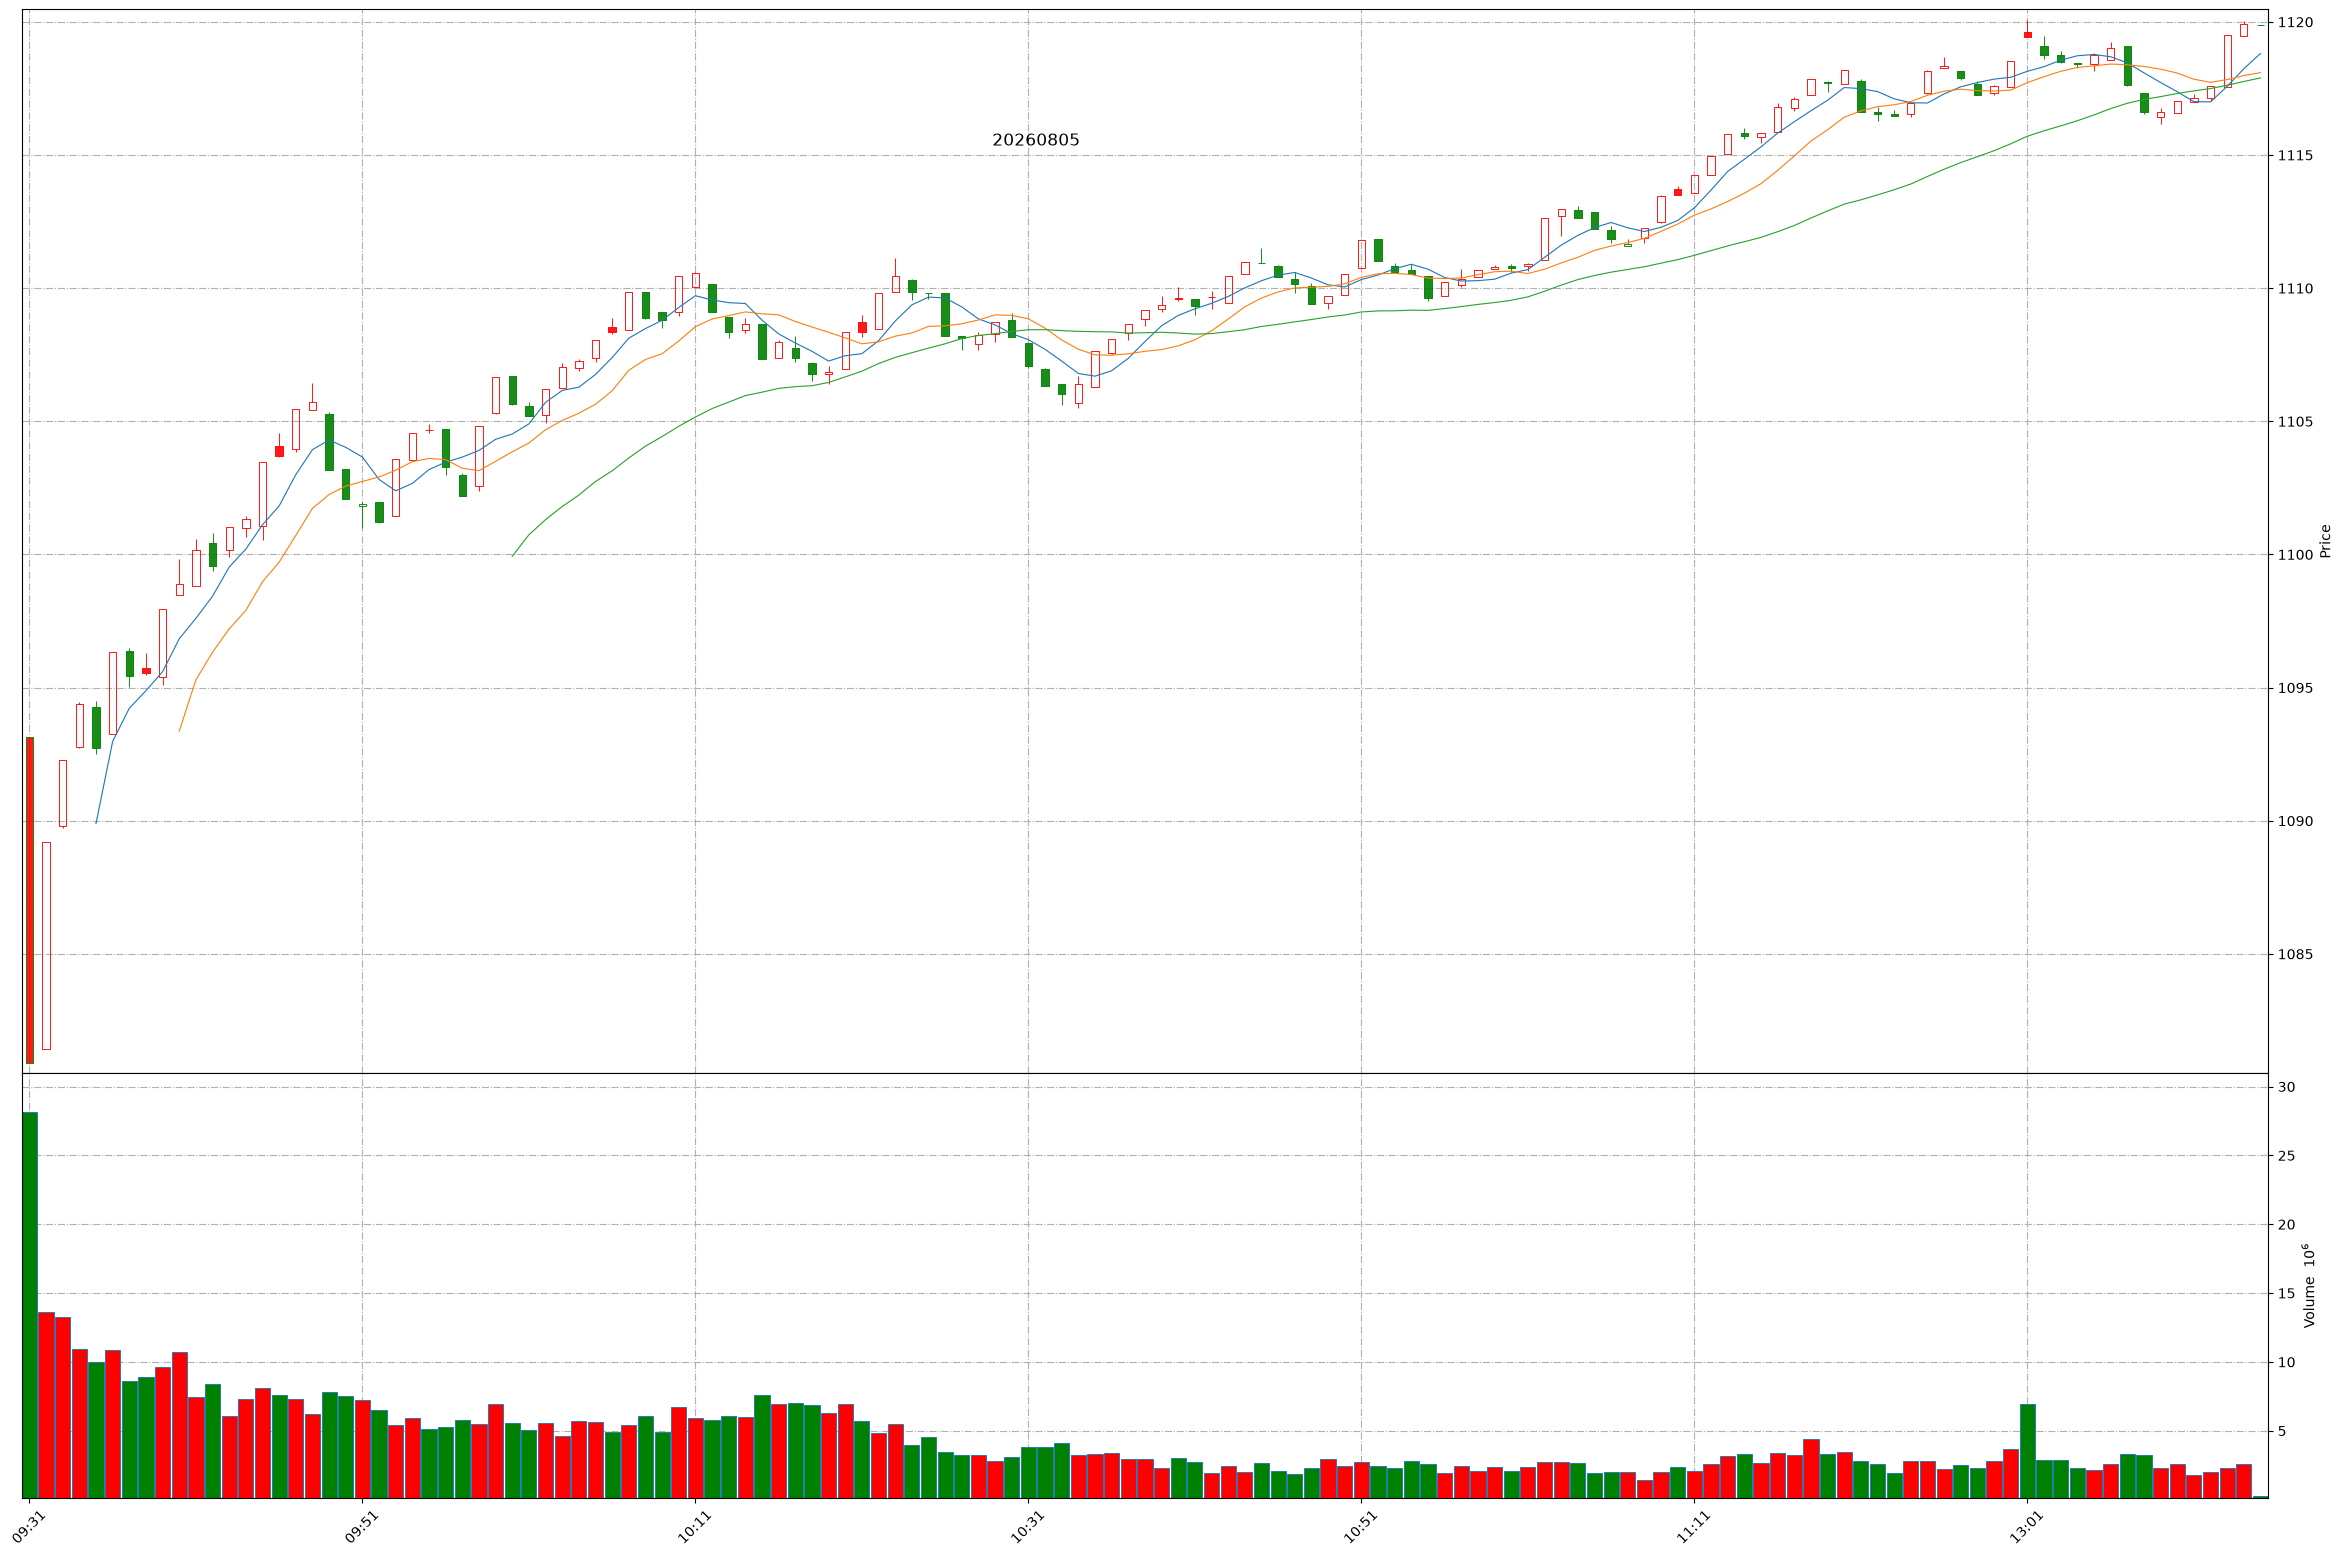
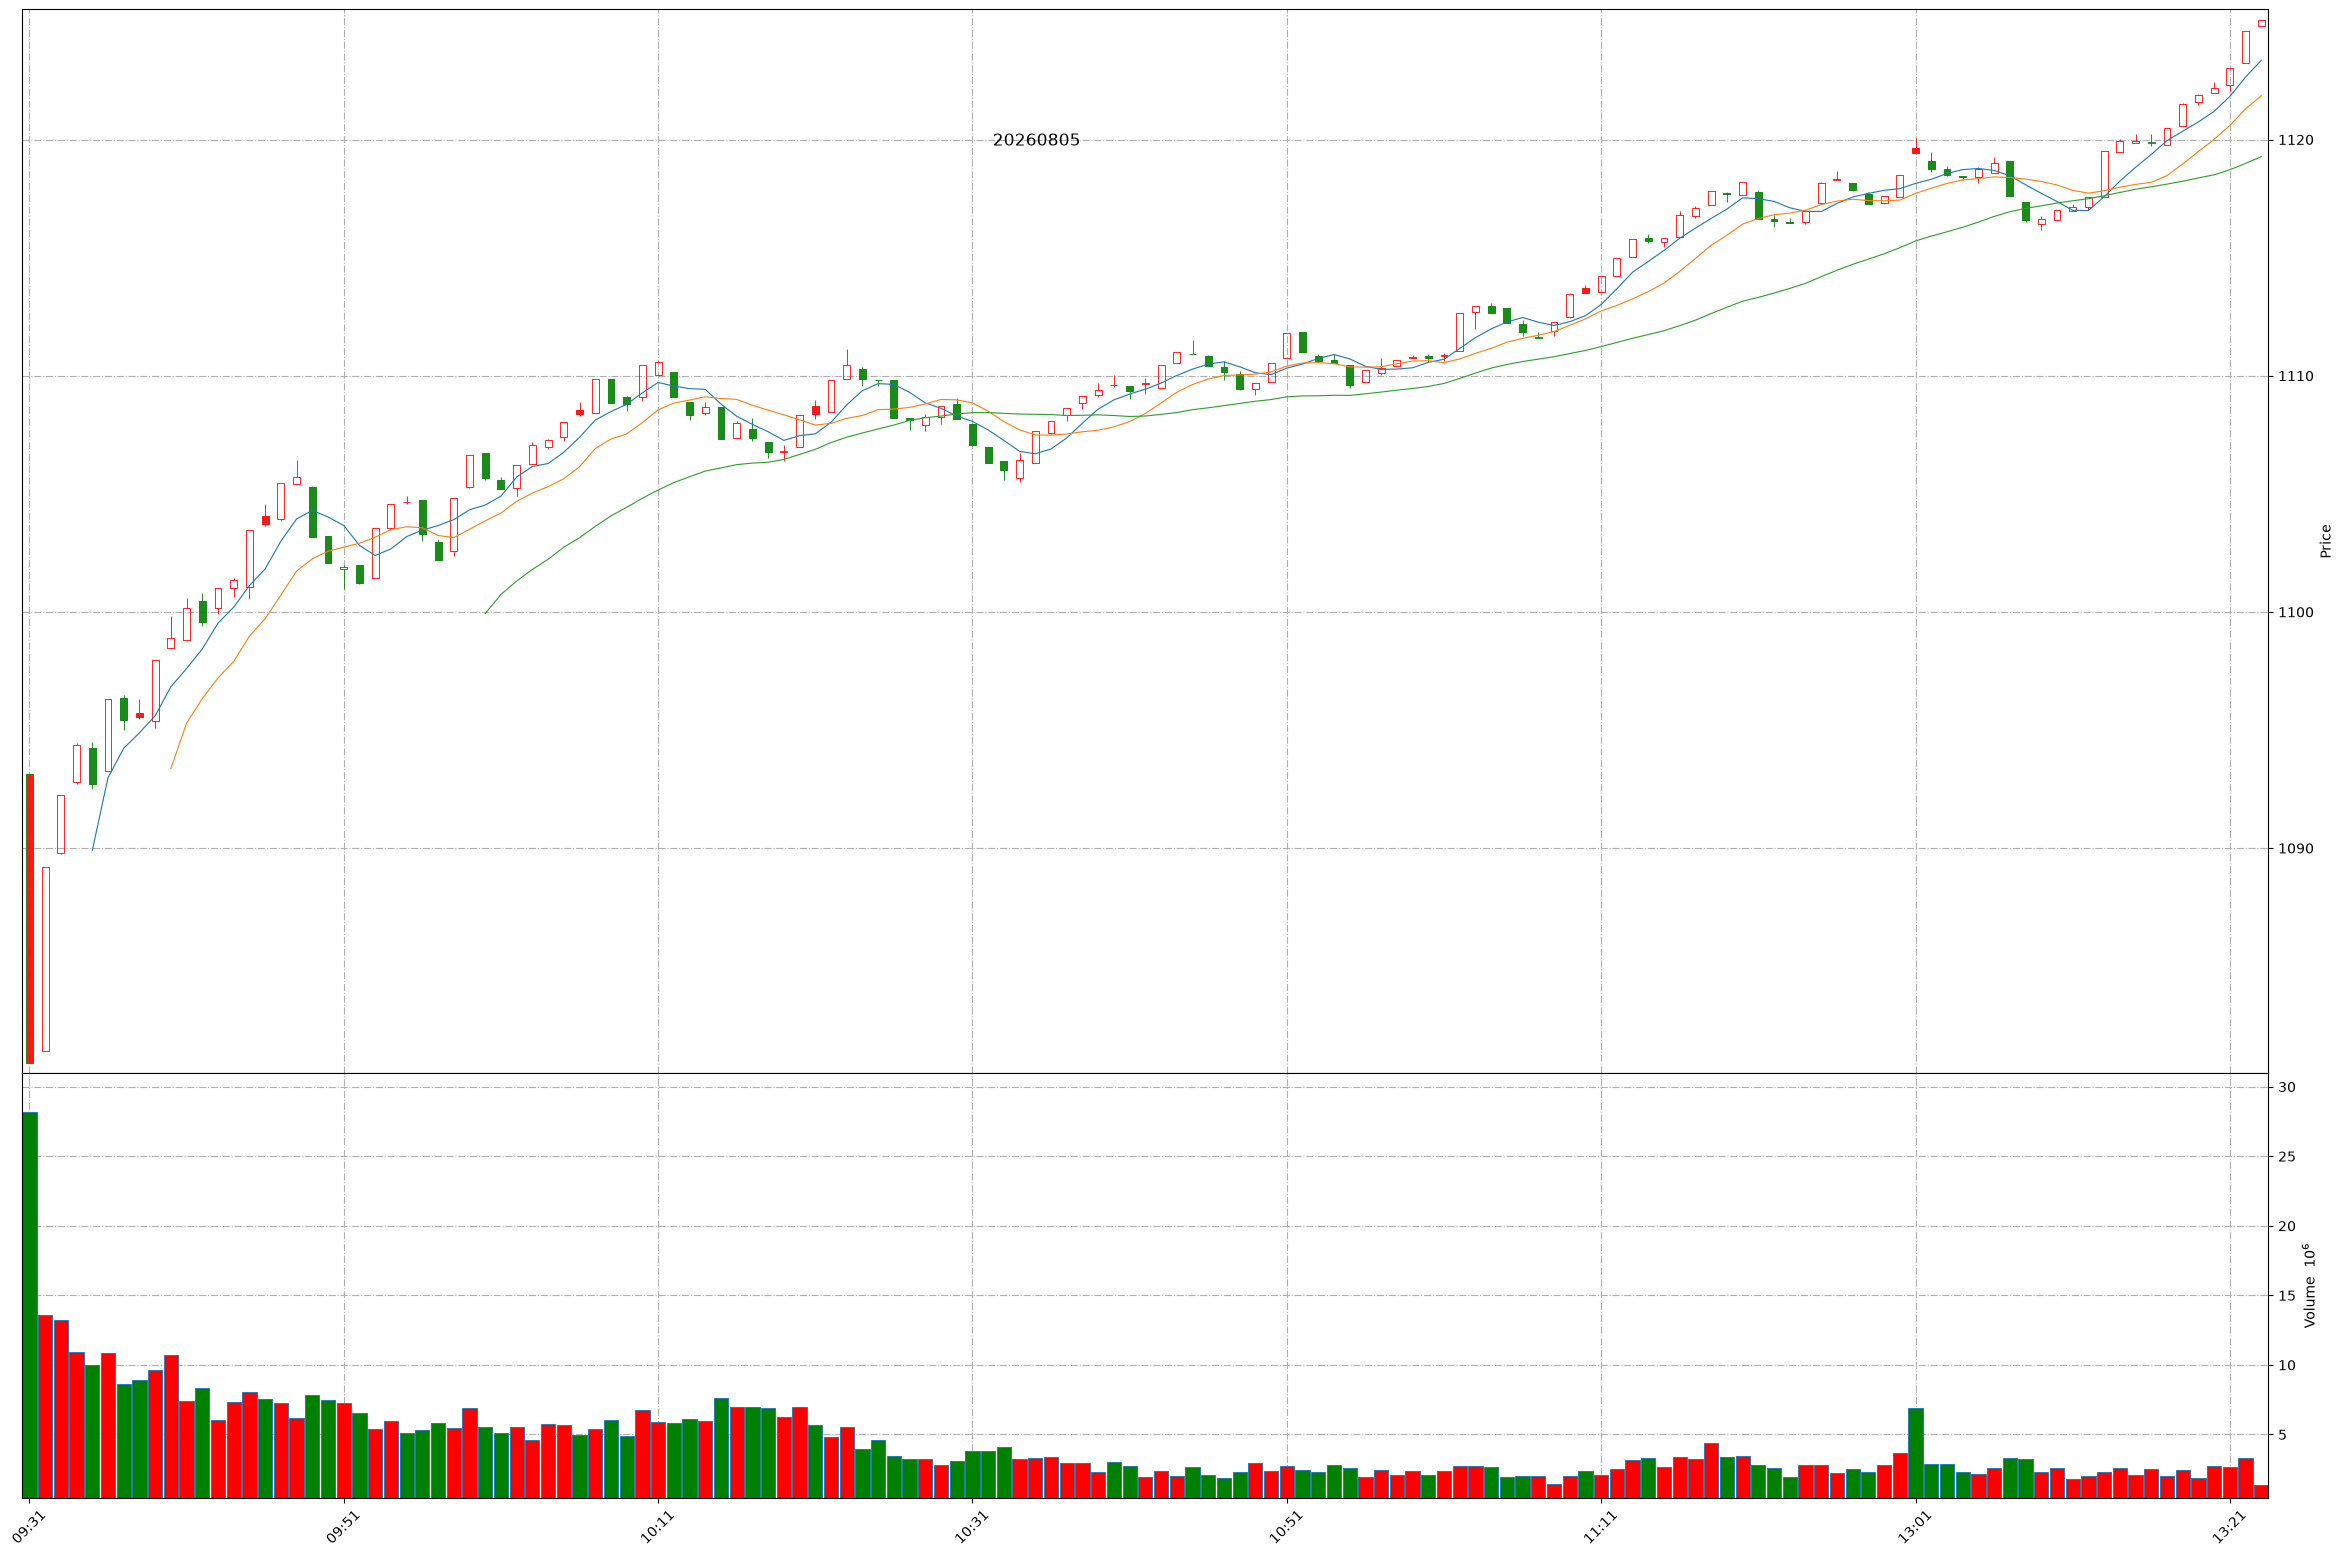
Github action update at 2026-08-05 13:22:33.

diff --git a/README.md b/README.md
@@ -1,11 +1,11 @@
 
 # Daily-A-share-market-quotes 每日 A 股指数（5min 更新）- 20260805
 
-### 上证指数 20260805 13:14
+### 上证指数 20260805 13:22
 ![](./fig/2026/8/20260805-sh000001.png)
 
-### 深证成指 20260805 13:14
+### 深证成指 20260805 13:22
 ![](./fig/2026/8/20260805-sz399001.png)
 
-### 北证50 20260805 13:14
+### 北证50 20260805 13:22
 ![](./fig/2026/8/20260805-bj899050.png)
